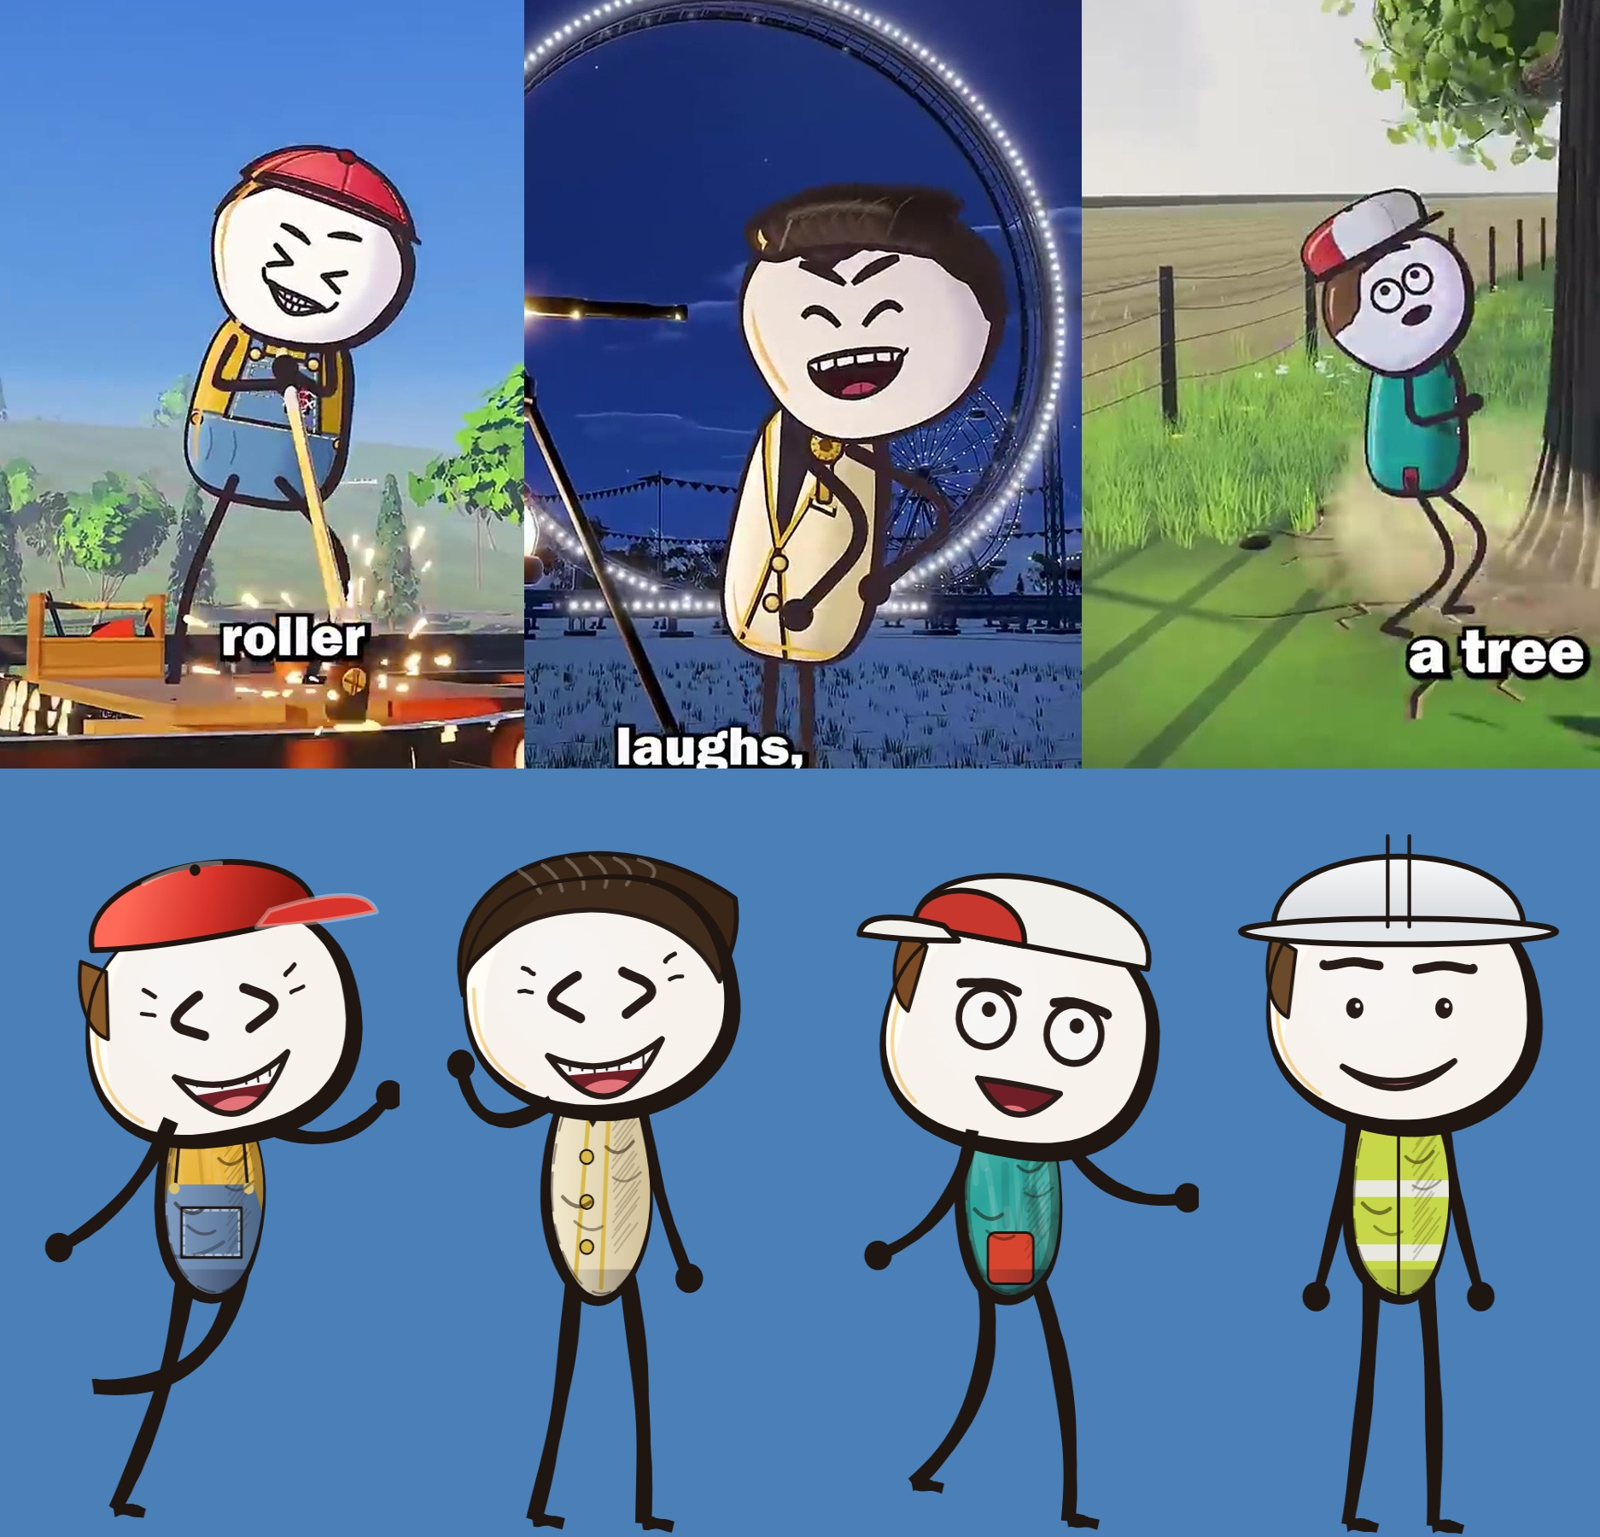
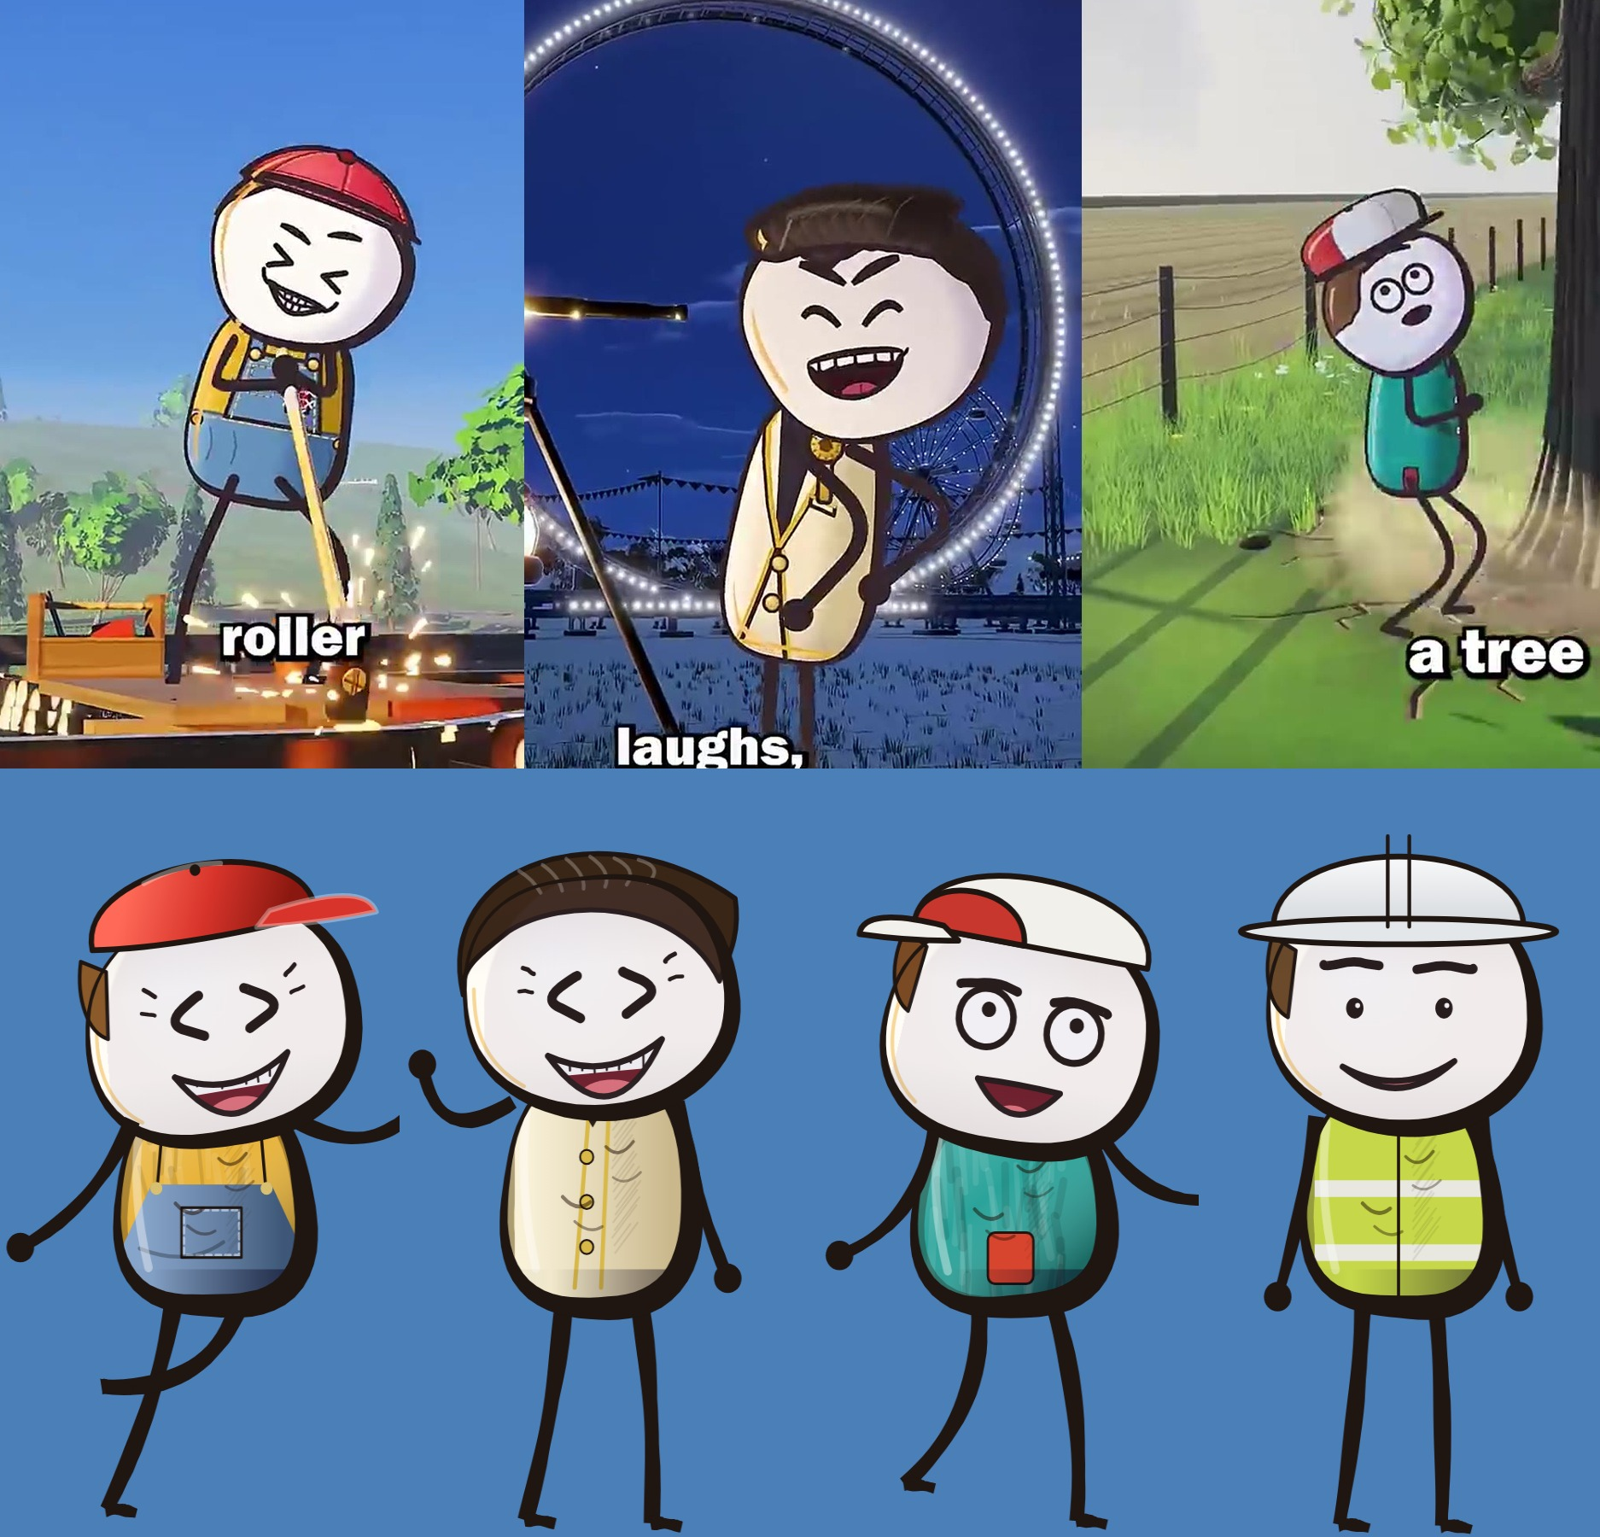
Style 2: wider pear-shaped bodies, heavier outline, soft face shading
Claude-Session: https://claude.ai/code/session_01FGKfNCiFWzyKtetsktk6LF

diff --git a/reel-studio/remotion-template/src/three/stickdraw.js b/reel-studio/remotion-template/src/three/stickdraw.js
@@ -55,24 +55,24 @@ export function drawStick(ctx, W, H, s) {
   const dirx = turn >= 0 ? 1 : -1, sw = walk ? Math.sin(walk * Math.PI * 2) : 0, sp = Math.abs(turn) > 0.5 ? 0.5 : 0.12;
   const thL = -pose.hL[0] * R - sw * sp * dirx, thR = pose.hR[0] * R + sw * sp * dirx, kL = (pose.hL[1] + Math.max(0, sw) * 40) * R, kR = (pose.hR[1] + Math.max(0, -sw) * 40) * R;
   const lg = (hx, th, kb) => { const l1 = LEG * 0.5, l2 = LEG * 0.5, e = [hx + Math.sin(th) * l1, hipY + Math.cos(th) * l1], h = [e[0] + Math.sin(th - kb * dirx) * l2, e[1] + Math.cos(th - kb * dirx) * l2]; taper([hx, hipY], [e[0] + 8 * dirx, e[1]], h, 30, 24); taper([h[0] - 2, h[1]], [h[0] + 16 * dirx, h[1] - 3], [h[0] + 50 * dirx, h[1] + 6], 22, 16); return h; };
-  lg(-44 + shX * 0.3 + hp, thL, kL); lg(44 + shX * 0.3 + hp, thR, kR);
+  lg(-58 + shX * 0.3 + hp, thL, kL); lg(58 + shX * 0.3 + hp, thR, kR);
   // ---- arms: thin ink lines, tiny closed fist
-  const armOf = (side, a) => { const L1 = 150 * (look.armL ?? 1), L2 = 140 * (look.armL ?? 1), ox = shX + side * 70 * TWs * 0.95, oy = shY + 50, e = [ox + side * Math.sin(a[0] * R) * L1, oy + Math.cos(a[0] * R) * L1], h = [e[0] + side * Math.sin((a[0] + a[1]) * R) * L2, e[1] + Math.cos((a[0] + a[1]) * R) * L2]; taper([ox, oy], [e[0], e[1]], h, 24, 18); ctx.fillStyle = look.glove || ink; ctx.beginPath(); ctx.arc(h[0], h[1], 23, 0, 7); ctx.fill(); return h; };
+  const armOf = (side, a) => { const L1 = 150 * (look.armL ?? 1), L2 = 140 * (look.armL ?? 1), ox = shX + side * 125 * TWs, oy = shY + 50, e = [ox + side * Math.sin(a[0] * R) * L1, oy + Math.cos(a[0] * R) * L1], h = [e[0] + side * Math.sin((a[0] + a[1]) * R) * L2, e[1] + Math.cos((a[0] + a[1]) * R) * L2]; taper([ox, oy], [e[0], e[1]], h, 24, 18); ctx.fillStyle = look.glove || ink; ctx.beginPath(); ctx.arc(h[0], h[1], 23, 0, 7); ctx.fill(); return h; };
   const backArm = pose.sR; armOf(1, backArm);
   // ---- torso: a bean (no neck; the head sits on it), painted clothes on top
-  const bean = (a) => { const c = Math.cos(a), sn = Math.sin(a), cx = shX * 0.5 + hp * 0.5, cy = (shY + hipY) / 2 + 10, rx = 78 * TWs * (1 + 0.1 * sn + 0.05 * sm1(a + 0.7)), ry = (TH / 2 + 28) * (1 + 0.03 * sm1(a + 2.1)); return [cx + c * rx, cy + sn * ry]; };
+  const bean = (a) => { const c = Math.cos(a), sn = Math.sin(a), cx = shX * 0.5 + hp * 0.5, cy = (shY + hipY) / 2 + 10, n = 2.5 + 0.3 * sn, r = Math.pow(Math.pow(Math.abs(c), n) + Math.pow(Math.abs(sn), n), -1 / n) * (1 + 0.03 * sm1(a + 2.1) + 0.05 * sn), rx = 140 * TWs, ry = (TH / 2 + 30); return [cx + c * rx * r * (1 + 0.12 * sn), cy + sn * ry * r]; };
   const tc = look.shirt || '#E8B33A'; paint(bean, tc, { x0: -110, x1: 110, y0: shY, y1: hipY });
   ctx.save(); ctx.beginPath(); for (let i = 0; i <= 48; i++) { const p = bean((i / 48) * Math.PI * 2); i ? ctx.lineTo(p[0], p[1]) : ctx.moveTo(p[0], p[1]); } ctx.closePath(); ctx.clip();
   const bx = shX * 0.5 + hp * 0.5;
-  if (look.overalls) { ctx.fillStyle = look.overalls; ctx.beginPath(); ctx.moveTo(bx - 70, shY + 150); ctx.lineTo(bx + 70, shY + 150); ctx.lineTo(bx + 130, hipY + 40); ctx.lineTo(bx - 130, hipY + 40); ctx.closePath(); ctx.fill(); const g = ctx.createLinearGradient(bx - 120, 0, bx + 120, 0); g.addColorStop(0, 'rgba(255,255,255,0.25)'); g.addColorStop(1, 'rgba(0,0,0,0.35)'); ctx.fillStyle = g; ctx.fill(); ctx.strokeStyle = ink; ctx.lineWidth = 5; [-1, 1].forEach((sd) => { ctx.beginPath(); ctx.moveTo(bx + sd * 60, shY + 150); ctx.lineTo(bx + sd * 50, shY + 40); ctx.stroke(); }); ctx.fillStyle = '#d9c070'; [-1, 1].forEach((sd) => { ctx.beginPath(); ctx.arc(bx + sd * 62, shY + 156, 9, 0, 7); ctx.fill(); }); ctx.setLineDash([9, 7]); ctx.strokeStyle = '#e8f0ff90'; ctx.lineWidth = 4; ctx.strokeRect(bx - 46, shY + 190, 92, 70); ctx.setLineDash([]); ctx.strokeStyle = ink; ctx.lineWidth = 4; ctx.strokeRect(bx - 50, shY + 186, 100, 78); ctx.strokeStyle = '#00000045'; ctx.lineWidth = 6; ctx.beginPath(); ctx.moveTo(bx - 120, hipY - 40); ctx.quadraticCurveTo(bx - 40, hipY - 10, bx + 20, hipY - 50); ctx.stroke(); }
+  if (look.overalls) { ctx.fillStyle = look.overalls; ctx.beginPath(); ctx.moveTo(bx - 100, shY + 150); ctx.lineTo(bx + 100, shY + 150); ctx.lineTo(bx + 190, hipY + 40); ctx.lineTo(bx - 190, hipY + 40); ctx.closePath(); ctx.fill(); const g = ctx.createLinearGradient(bx - 120, 0, bx + 120, 0); g.addColorStop(0, 'rgba(255,255,255,0.25)'); g.addColorStop(1, 'rgba(0,0,0,0.35)'); ctx.fillStyle = g; ctx.fill(); ctx.strokeStyle = ink; ctx.lineWidth = 5; [-1, 1].forEach((sd) => { ctx.beginPath(); ctx.moveTo(bx + sd * 90, shY + 150); ctx.lineTo(bx + sd * 80, shY + 40); ctx.stroke(); }); ctx.fillStyle = '#d9c070'; [-1, 1].forEach((sd) => { ctx.beginPath(); ctx.arc(bx + sd * 92, shY + 156, 10, 0, 7); ctx.fill(); }); ctx.setLineDash([9, 7]); ctx.strokeStyle = '#e8f0ff90'; ctx.lineWidth = 4; ctx.strokeRect(bx - 46, shY + 190, 92, 70); ctx.setLineDash([]); ctx.strokeStyle = ink; ctx.lineWidth = 4; ctx.strokeRect(bx - 50, shY + 186, 100, 78); ctx.strokeStyle = '#00000045'; ctx.lineWidth = 6; ctx.beginPath(); ctx.moveTo(bx - 120, hipY - 40); ctx.quadraticCurveTo(bx - 40, hipY - 10, bx + 20, hipY - 50); ctx.stroke(); }
   if (look.vest) { ctx.fillStyle = look.vest; ctx.fillRect(bx - 140, shY - 20, 280, 480); const g = ctx.createLinearGradient(bx - 120, 0, bx + 120, 0); g.addColorStop(0, 'rgba(255,255,255,0.3)'); g.addColorStop(1, 'rgba(120,90,30,0.35)'); ctx.fillStyle = g; ctx.fillRect(bx - 140, shY - 20, 280, 480); ctx.strokeStyle = look.trim || '#d9b84a'; ctx.lineWidth = 7; ctx.beginPath(); ctx.moveTo(bx - 14, shY + 40); ctx.lineTo(bx - 40, hipY + 20); ctx.moveTo(bx + 18, shY + 40); ctx.lineTo(bx + 4, hipY + 20); ctx.stroke(); ctx.fillStyle = look.trim || '#d9b84a'; [0.3, 0.52, 0.74].forEach((k) => { ctx.beginPath(); ctx.arc(bx - 20, shY + 40 + (hipY - shY) * k, 11, 0, 7); ctx.fill(); ctx.strokeStyle = ink; ctx.lineWidth = 3; ctx.stroke(); }); ctx.fillStyle = '#2a2018'; ctx.beginPath(); ctx.moveTo(bx - 60, shY + 10); ctx.lineTo(bx - 10, shY + 90); ctx.lineTo(bx + 40, shY + 10); ctx.closePath(); ctx.fill(); }
   if (look.patch) { ctx.fillStyle = look.patch; ctx.beginPath(); ctx.roundRect(bx - 38, hipY - 70, 76, 80, 12); ctx.fill(); ctx.strokeStyle = ink; ctx.lineWidth = 4; ctx.stroke(); }
   if (look.vis) { ctx.fillStyle = look.vis; ctx.fillRect(bx - 140, shY + 20, 280, 400); ctx.fillStyle = '#e8e8e0'; ctx.fillRect(bx - 140, shY + 150, 280, 26); ctx.fillRect(bx - 140, shY + 250, 280, 26); ctx.strokeStyle = ink; ctx.lineWidth = 5; ctx.beginPath(); ctx.moveTo(bx, shY + 20); ctx.lineTo(bx, hipY + 40); ctx.stroke(); }
   ctx.lineCap = 'round'; [[-60, 0.62, 0.7, 6, 0.5], [-40, 0.74, 0.5, 4.5, 0.4], [58, 0.35, 0.9, 5, 0.5], [70, 0.5, 0.6, 4, 0.35]].forEach(([dx, k, bend, w, al]) => { const y = shY + (hipY - shY) * k; ctx.strokeStyle = `rgba(30,12,0,${al})`; ctx.lineWidth = w; ctx.beginPath(); ctx.moveTo(bx + dx, y); ctx.quadraticCurveTo(bx + dx + 24 * (dx < 0 ? 1 : -1), y + 22 * bend + 10, bx + dx + 46 * (dx < 0 ? 1 : -1), y + 8); ctx.stroke(); });
-  hatch(bx + 22, shY + 70, 70, TH * 0.72, -0.9, 12, 0.22);
+  hatch(bx + 22, shY + 70, 70, TH * 0.72, -0.9, 12, 0.1); ctx.strokeStyle = 'rgba(255,255,255,0.4)'; ctx.lineWidth = 14; ctx.lineCap = 'round'; ctx.beginPath(); ctx.moveTo(bx - 120, shY + 60); ctx.quadraticCurveTo(bx - 135, (shY + hipY) / 2 + 20, bx - 105, hipY - 10); ctx.stroke();
   ctx.restore(); ctx.save(); ctx.beginPath(); for (let i = 0; i <= 48; i++) { const p = bean((i / 48) * Math.PI * 2); i ? ctx.lineTo(p[0], p[1]) : ctx.moveTo(p[0], p[1]); } ctx.closePath(); ctx.clip(); { const bg = ctx.createLinearGradient(-200, 0, 200, 0); bg.addColorStop(0, 'rgba(255,255,255,0.16)'); bg.addColorStop(0.3, 'rgba(0,0,0,0)'); bg.addColorStop(0.55, 'rgba(10,5,30,0.2)'); bg.addColorStop(1, 'rgba(10,5,30,0.62)'); ctx.fillStyle = bg; ctx.fillRect(-300, -400, 600, 900);
     ctx.strokeStyle = 'rgba(10,5,30,0.32)'; ctx.lineWidth = 16; ctx.lineCap = 'round'; for (let k = 0; k < 5; k++) { const y = -TH * 0.35 + k * TH * 0.2 + rn(k * 7) * 20; ctx.beginPath(); ctx.moveTo(30 + rn(k) * 30, y); ctx.quadraticCurveTo(80, y + 25, 120, y + 8 + rn(k * 3) * 14); ctx.stroke(); }
-    ctx.strokeStyle = 'rgba(255,255,255,0.22)'; ctx.lineWidth = 9; for (let k = 0; k < 3; k++) { const y = -TH * 0.3 + k * TH * 0.25; ctx.beginPath(); ctx.moveTo(-110, y); ctx.quadraticCurveTo(-80, y + 20, -50, y + 6); ctx.stroke(); } } ctx.restore(); loop(bean, 72, 9.5, -0.7); inner(bean, 60, 0.94, 0.45);
+    ctx.strokeStyle = 'rgba(255,255,255,0.22)'; ctx.lineWidth = 9; for (let k = 0; k < 3; k++) { const y = -TH * 0.3 + k * TH * 0.25; ctx.beginPath(); ctx.moveTo(-110, y); ctx.quadraticCurveTo(-80, y + 20, -50, y + 6); ctx.stroke(); } } ctx.restore(); loop(bean, 72, 20, -2.3);
   // ---- head: a round, slightly tall oval; cream with a warm shaded rim; ink loop with a heavy shadow side
   ctx.save(); ctx.translate(shX * 1.1, hdY); ctx.rotate((pose.tilt + (look.headTilt || 0) + (expr.tilt2 || 0)) * R); const fx = turn * 56;
   const headF = (a) => { const c = Math.cos(a), sn = Math.sin(a), A = look.asym ?? 1, n = 2.3 + 0.25 * A * Math.sin(a), r = Math.pow(Math.pow(Math.abs(c), n) + Math.pow(Math.abs(sn), n), -1 / n) * (1 + 0.035 * Math.cos(a - 0.9 * A) + 0.02 * Math.cos(2 * a + A)) * (1 + 0.03 * sn); return [c * HEADRX * r * (1 + 0.025 * sn), sn * HEADRY * r]; };   // rounded squarish blob: broad jaw, flatter chin
@@ -98,7 +98,7 @@ export function drawStick(ctx, W, H, s) {
   ctx.restore();
   ctx.save(); ctx.beginPath(); for (let i = 0; i <= 56; i++) { const p = headF((i / 56) * Math.PI * 2); i ? ctx.lineTo(p[0], p[1]) : ctx.moveTo(p[0], p[1]); } ctx.closePath(); ctx.clip(); ctx.restore();
   ctx.save(); ctx.beginPath(); for (let i = 0; i <= 56; i++) { const p = headF((i / 56) * Math.PI * 2); i ? ctx.lineTo(p[0], p[1]) : ctx.moveTo(p[0], p[1]); } ctx.closePath(); ctx.clip();
-  const sg = ctx.createRadialGradient(-HEADRX * 0.4, -HEADRY * 0.4, HEADRY * 0.5, HEADRX * 0.2, HEADRY * 0.2, HEADRY * 1.25); sg.addColorStop(0, 'rgba(120,110,160,0)'); sg.addColorStop(0.8, 'rgba(140,130,180,0)'); sg.addColorStop(1, 'rgba(150,120,110,0.07)'); ctx.fillStyle = sg; ctx.fillRect(-300, -300, 600, 600);
+  const sg = ctx.createRadialGradient(-HEADRX * 0.4, -HEADRY * 0.4, HEADRY * 0.5, HEADRX * 0.2, HEADRY * 0.2, HEADRY * 1.25); sg.addColorStop(0, 'rgba(120,110,160,0)'); sg.addColorStop(0.8, 'rgba(140,130,180,0)'); sg.addColorStop(1, 'rgba(120,100,140,0.1)'); ctx.fillStyle = sg; ctx.fillRect(-300, -300, 600, 600); { const fg = ctx.createLinearGradient(0, -HEADRY, 0, -HEADRY * 0.25); fg.addColorStop(0, 'rgba(90,60,70,0.1)'); fg.addColorStop(1, 'rgba(70,50,90,0)'); ctx.fillStyle = fg; ctx.fillRect(-300, -300, 600, 600); const cg = ctx.createLinearGradient(0, HEADRY * 0.45, 0, HEADRY); cg.addColorStop(0, 'rgba(110,95,150,0)'); cg.addColorStop(1, 'rgba(120,100,120,0.1)'); ctx.fillStyle = cg; ctx.fillRect(-300, -300, 600, 600); }
   ctx.restore();
   // head outline last so it is crisp
   loop(headF, 84, 15, -2.3);
